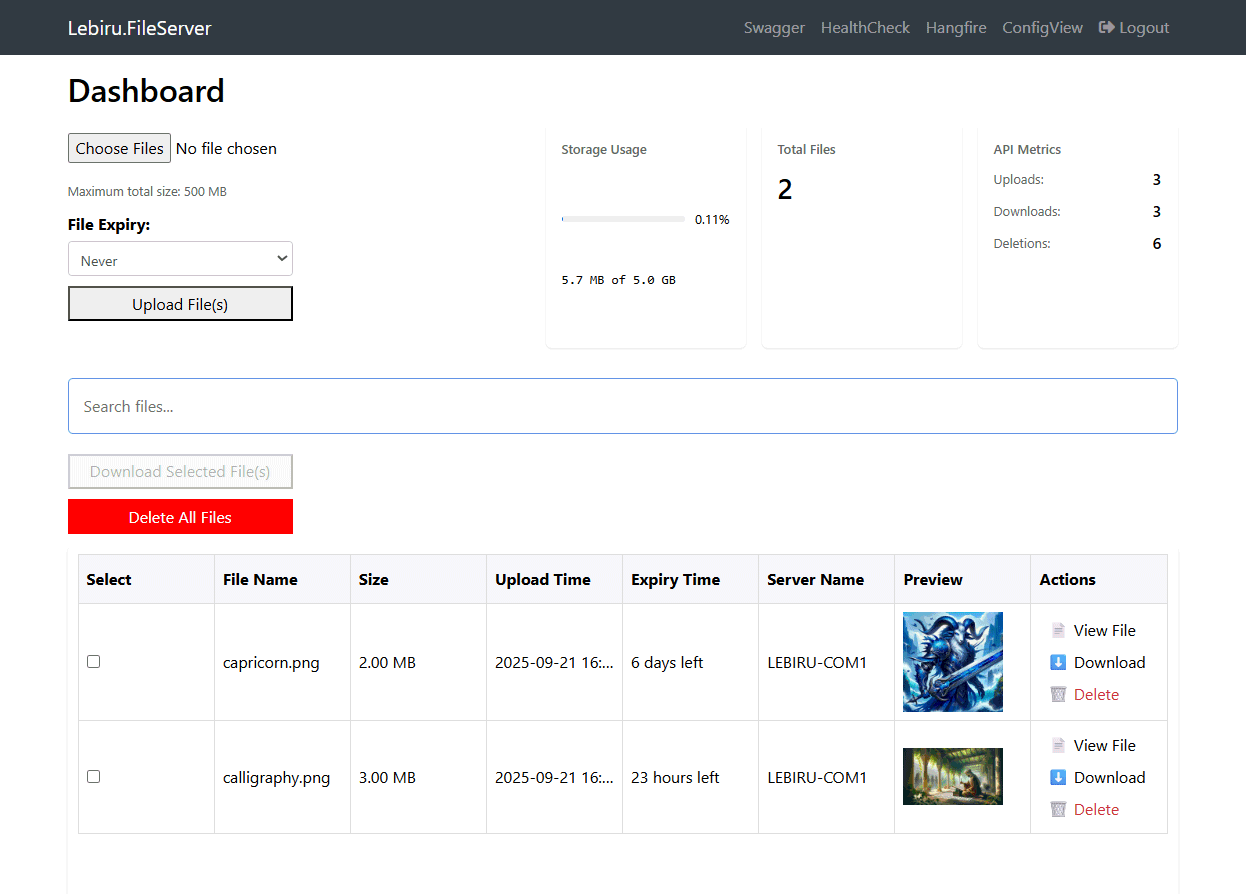
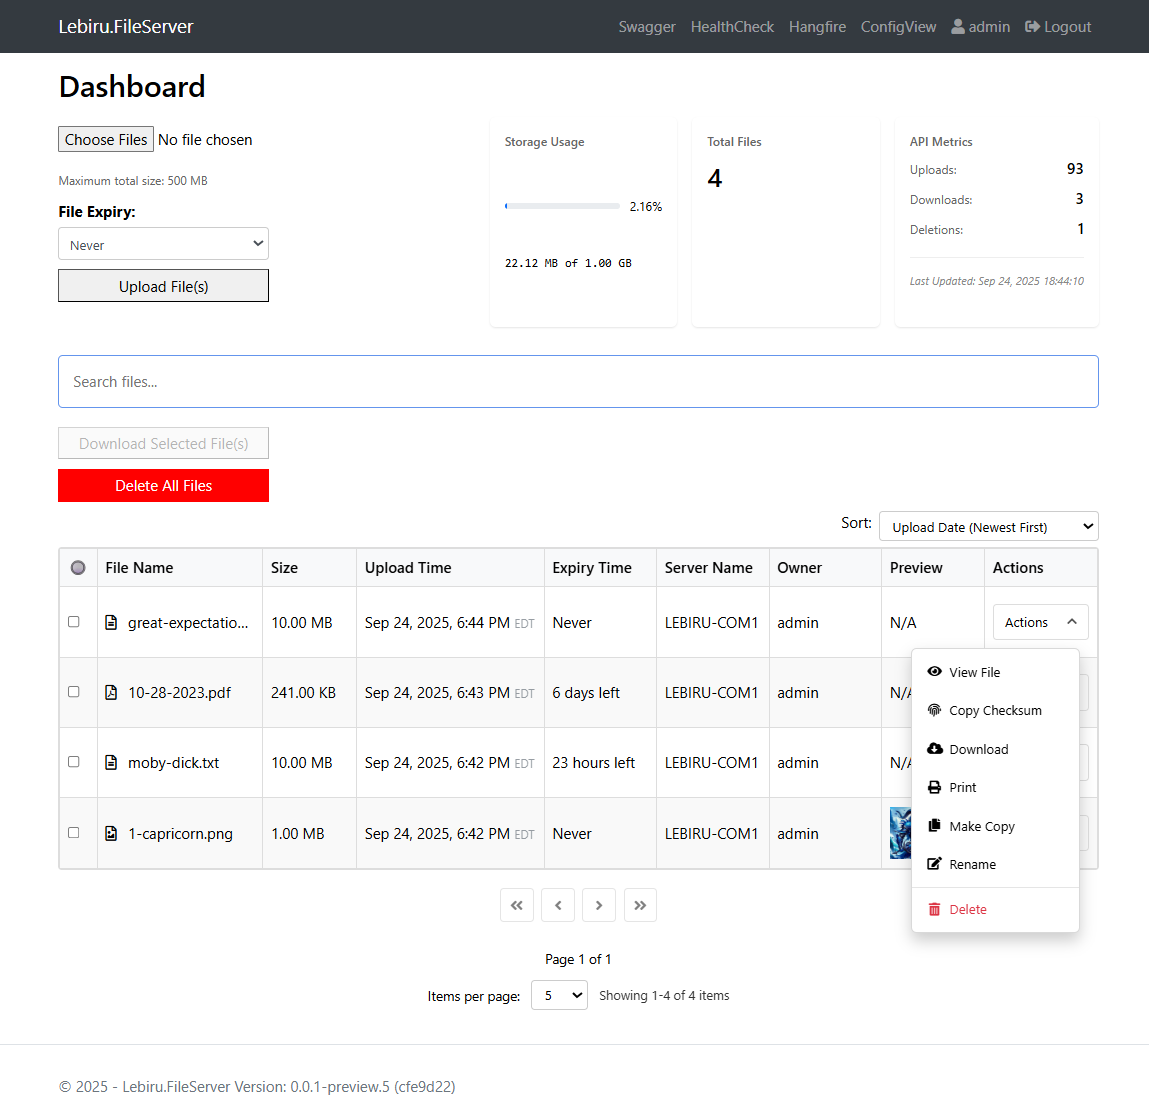
feat: add copy checksum button, readme.md updated with latest screenshot (#22)

diff --git a/app/Controllers/FileController.cs b/app/Controllers/FileController.cs
@@ -7,6 +7,7 @@ using Lebiru.FileService.Models;
 using FileInfo = Lebiru.FileService.Models.FileInfo;
 using Lebiru.FileService.Services;
 using Microsoft.AspNetCore.Authorization;
+using System.Security.Cryptography;
 
 namespace Lebiru.FileService.Controllers
 {
@@ -18,8 +19,8 @@ namespace Lebiru.FileService.Controllers
     [Authorize]
     public class FileController : Controller
     {
-    private const string UploadsFolder = "uploads";
-    private const string DataFolder = "app-data";
+        private const string UploadsFolder = "uploads";
+        private const string DataFolder = "app-data";
         private readonly CleanupJob _cleanupJob;
         private readonly IBackgroundJobClient _backgroundJobClient;
         private readonly string _fileInfoPath;
@@ -28,7 +29,7 @@ namespace Lebiru.FileService.Controllers
         private readonly IUserService _userService;
 
         private static readonly object _fileLock = new object();
-        
+
         private List<Models.FileInfo> FileInfos
         {
             get
@@ -102,7 +103,7 @@ namespace Lebiru.FileService.Controllers
             fileInfos = fileInfos
                 .OrderByDescending(f => f.UploadTime)
                 .ToList();
-            
+
             // Create pagination model with default values
             var pagination = new PaginationModel
             {
@@ -164,11 +165,11 @@ namespace Lebiru.FileService.Controllers
                 "expiry_desc" => fileInfos.OrderByDescending(f => f.ExpiryTime ?? DateTime.MaxValue).ToList(),
                 _ => fileInfos.OrderByDescending(f => f.UploadTime).ToList(), // upload_desc default
             };
-            
+
             // Ensure valid pagination parameters
             page = Math.Max(1, page);
-            itemsPerPage = PaginationModel.PageSizeOptions.Contains(itemsPerPage) 
-                ? itemsPerPage 
+            itemsPerPage = PaginationModel.PageSizeOptions.Contains(itemsPerPage)
+                ? itemsPerPage
                 : PaginationModel.PageSizeOptions[1]; // Default to 10
 
             // Create pagination model
@@ -254,7 +255,7 @@ namespace Lebiru.FileService.Controllers
                 {
                     await file.CopyToAsync(stream);
                 }
-                
+
                 // Flush to ensure the file is written to disk
                 System.IO.File.SetLastWriteTimeUtc(filePath, DateTime.UtcNow);
 
@@ -301,7 +302,7 @@ namespace Lebiru.FileService.Controllers
 
             // Increment upload counter
             _metricsService.IncrementUploadCount();
-            
+
             return Ok("File uploaded successfully.");
         }
 
@@ -338,7 +339,7 @@ namespace Lebiru.FileService.Controllers
             var mimeType = GetMimeType(filePath);
             return PhysicalFile(filePath, mimeType, enableRangeProcessing: true);
         }
-        
+
         /// <summary>
         /// Views a file in the browser in print mode
         /// </summary>
@@ -353,15 +354,15 @@ namespace Lebiru.FileService.Controllers
                 return NotFound("File not found.");
 
             var mimeType = GetMimeType(filePath);
-            
+
             // Add JavaScript to automatically open print dialog
             ViewBag.Filename = filename;
             ViewBag.MimeType = mimeType;
             ViewBag.FilePath = Url.Action("ViewFile", "File", new { filename });
-            
+
             return View("PrintView");
         }
-        
+
         /// <summary>
         /// Makes a copy of the specified file
         /// </summary>
@@ -377,36 +378,36 @@ namespace Lebiru.FileService.Controllers
                 {
                     return BadRequest("Filename cannot be empty.");
                 }
-                
+
                 // Sanitize filename and get paths
                 filename = Path.GetFileName(filename);
                 var sourcePath = Path.Combine(Directory.GetCurrentDirectory(), UploadsFolder, filename);
-                
+
                 // Check if source file exists
                 if (!System.IO.File.Exists(sourcePath))
                 {
                     return NotFound($"File '{filename}' not found.");
                 }
-                
+
                 // Check if user has permission to access the file
                 var username = User.Identity?.Name;
                 if (username == null)
                 {
                     return Unauthorized();
                 }
-                
+
                 var userRole = User.Claims.FirstOrDefault(c => c.Type == System.Security.Claims.ClaimTypes.Role)?.Value;
                 if (userRole != UserRoles.Admin && !_userService.IsFileOwner(username, sourcePath))
                 {
                     return Forbid();
                 }
-                
+
                 // Generate new filename with " Copy" suffix
                 string filenameWithoutExt = Path.GetFileNameWithoutExtension(filename);
                 string extension = Path.GetExtension(filename);
                 string newFilename = $"{filenameWithoutExt} Copy{extension}";
                 string destPath = Path.Combine(Directory.GetCurrentDirectory(), UploadsFolder, newFilename);
-                
+
                 // If file with " Copy" suffix exists, add a number
                 int counter = 1;
                 while (System.IO.File.Exists(destPath))
@@ -415,7 +416,7 @@ namespace Lebiru.FileService.Controllers
                     destPath = Path.Combine(Directory.GetCurrentDirectory(), UploadsFolder, newFilename);
                     counter++;
                 }
-                
+
                 // Check if copy will exceed configured disk space limit
                 var totalSpaceUsed = GetTotalSpaceUsed(Path.Combine(Directory.GetCurrentDirectory(), UploadsFolder));
                 var sourceFileInfo = new System.IO.FileInfo(sourcePath);
@@ -424,10 +425,10 @@ namespace Lebiru.FileService.Controllers
                 {
                     return BadRequest($"File copy would exceed the maximum allocated space of {_config.MaxDiskSpaceGB} GB.");
                 }
-                
+
                 // Copy the file
                 System.IO.File.Copy(sourcePath, destPath);
-                
+
                 // Update fileInfo.json
                 var fileInfos = FileInfos;
                 var sourceFileDetails = fileInfos.FirstOrDefault(f => f.FileName == filename);
@@ -442,20 +443,20 @@ namespace Lebiru.FileService.Controllers
                         FileSize = sourceFileDetails.FileSize,
                         Owner = User.Identity?.Name
                     };
-                    
+
                     fileInfos.Add(newFileInfo);
                     FileInfos = fileInfos;
                 }
-                
+
                 // Add file ownership
                 if (username != null)
                 {
                     _userService.AddFileToUser(username, destPath);
                 }
-                
+
                 // Increment upload counter (copying is like uploading)
                 _metricsService.IncrementUploadCount();
-                
+
                 return Ok(new { message = $"File copied successfully as '{newFilename}'", newFilename });
             }
             catch (Exception ex)
@@ -471,7 +472,8 @@ namespace Lebiru.FileService.Controllers
                 return 0;
 
             // Get fresh file info and handle any locked files
-            return directoryInfo.GetFiles().Sum(file => {
+            return directoryInfo.GetFiles().Sum(file =>
+            {
                 try
                 {
                     file.Refresh();
@@ -554,7 +556,7 @@ namespace Lebiru.FileService.Controllers
             // Enqueue both cleanup jobs
             _backgroundJobClient.Enqueue(() => _cleanupJob.Execute(null!));
             _backgroundJobClient.Enqueue<ExpiryJob>(job => job.DeleteExpiredFiles(null));
-            
+
             return Ok("Cleanup jobs have been enqueued.");
         }
 
@@ -594,14 +596,14 @@ namespace Lebiru.FileService.Controllers
                 }
 
                 memoryStream.Seek(0, SeekOrigin.Begin);
-                
+
                 // Count each file in the zip as a download
                 var fileList = filenames.Split('|', StringSplitOptions.RemoveEmptyEntries);
                 foreach (var _ in fileList)
                 {
                     _metricsService.IncrementDownloadCount();
                 }
-                
+
                 return File(memoryStream.ToArray(), "application/zip", $"LebiruFiles.zip");
             }
         }
@@ -704,7 +706,7 @@ namespace Lebiru.FileService.Controllers
                 {
                     return BadRequest("New filename cannot be empty.");
                 }
-                
+
                 // Ensure the new filename has the same extension to prevent type changing
                 var oldExtension = Path.GetExtension(oldFilename);
                 var newExtension = Path.GetExtension(newFilename);
@@ -717,41 +719,41 @@ namespace Lebiru.FileService.Controllers
                 {
                     return BadRequest("Changing file extension is not allowed. New filename must have the same extension as the original.");
                 }
-                
+
                 var oldFilePath = Path.Combine(Directory.GetCurrentDirectory(), UploadsFolder, oldFilename);
                 var newFilePath = Path.Combine(Directory.GetCurrentDirectory(), UploadsFolder, newFilename);
-                
+
                 // Check if source file exists
                 if (!System.IO.File.Exists(oldFilePath))
                 {
                     return NotFound($"File '{oldFilename}' not found.");
                 }
-                
+
                 // Check if target file already exists
                 if (System.IO.File.Exists(newFilePath))
                 {
                     return BadRequest($"File '{newFilename}' already exists. Please choose a different name.");
                 }
-                
+
                 // Check if user has permission to modify the file
                 var username = User.Identity?.Name;
                 if (username == null)
                 {
                     return Unauthorized();
                 }
-                
+
                 var userRole = User.Claims.FirstOrDefault(c => c.Type == System.Security.Claims.ClaimTypes.Role)?.Value;
                 if (userRole != UserRoles.Admin && !_userService.IsFileOwner(username, oldFilePath))
                 {
                     return Forbid();
                 }
-                
+
                 // Rename the physical file
                 System.IO.File.Move(oldFilePath, newFilePath);
-                
+
                 // Update file references in userInfo.json
                 _userService.UpdateFilePath(oldFilePath, newFilePath);
-                
+
                 // Update fileInfo.json
                 var fileInfos = FileInfos;
                 var fileInfo = fileInfos.FirstOrDefault(f => f.FileName == oldFilename);
@@ -761,7 +763,7 @@ namespace Lebiru.FileService.Controllers
                     fileInfo.FilePath = newFilePath;
                     FileInfos = fileInfos;
                 }
-                
+
                 return Ok(new { message = "File renamed successfully", newFilename });
             }
             catch (Exception ex)
@@ -769,7 +771,7 @@ namespace Lebiru.FileService.Controllers
                 return StatusCode(500, $"An error occurred while renaming the file: {ex.Message}");
             }
         }
-        
+
         /// <summary>
         /// Deletes a specific file from the server
         /// </summary>
@@ -826,7 +828,7 @@ namespace Lebiru.FileService.Controllers
             string[] suffixes = { "B", "KB", "MB", "GB", "TB", "PB" };
             int counter = 0;
             decimal number = bytes;
-            
+
             // Convert without rounding until we reach the final unit
             while (number >= 1024)
             {
@@ -839,8 +841,56 @@ namespace Lebiru.FileService.Controllers
             return $"{number.ToString(format)} {suffixes[counter]}";
         }
 
+        /// <summary>
+        /// Calculate SHA-256 checksum for a specified file
+        /// </summary>
+        /// <param name="filename">The name of the file to calculate the checksum for</param>
+        /// <returns>SHA-256 checksum of the file as a string</returns>
+        private string CalculateSha256Checksum(string filename)
+        {
+            try
+            {
+                var filePath = Path.Combine(Directory.GetCurrentDirectory(), UploadsFolder, filename);
+                if (!System.IO.File.Exists(filePath))
+                {
+                    return string.Empty;
+                }
 
+                using (var stream = System.IO.File.OpenRead(filePath))
+                using (var sha256 = SHA256.Create())
+                {
+                    var hash = sha256.ComputeHash(stream);
+                    return BitConverter.ToString(hash).Replace("-", "").ToLowerInvariant();
+                }
+            }
+            catch (Exception)
+            {
+                return string.Empty;
+            }
+        }
+
+        /// <summary>
+        /// Get the SHA-256 checksum for a file
+        /// </summary>
+        /// <param name="filename">The name of the file</param>
+        /// <returns>JSON object containing the filename and its SHA-256 checksum</returns>
+        [HttpGet("Checksum")]
+        [ProducesResponseType(StatusCodes.Status200OK)]
+        [ProducesResponseType(StatusCodes.Status404NotFound)]
+        public IActionResult GetChecksum(string filename)
+        {
+            if (string.IsNullOrEmpty(filename))
+            {
+                return BadRequest("Filename cannot be empty");
+            }
+
+            var checksum = CalculateSha256Checksum(filename);
+            if (string.IsNullOrEmpty(checksum))
+            {
+                return NotFound($"File '{filename}' not found or could not be accessed");
+            }
+
+            return Json(new { filename, checksum });
+        }
     }
-
-
 }

diff --git a/README.md b/README.md
@@ -12,6 +12,7 @@ Lebiru.FileService is a simple ASP.NET Core application that allows users to upl
 - **File Printing**: 🖨 Users can easily print files directly from the web interface.
 - **File Rename**: 🔄 Users can rename their uploaded files while preserving file extensions.
 - **File Copy**: 📋 Users can create copies of files with automatic naming (adds "Copy" suffix).
+- **File Checksums**: 🔐 Users can copy SHA-256 checksums of files to the clipboard for verification.
 - **Multi-File Download to Zip**: Users can download multiple files into a zip from the server. (@alfcanres)
 - **File Listing**: Users can view a list of uploaded files along with their upload times.
 - **Image Preview**: 🖼 Image files are displayed with a preview in the web interface.
@@ -115,6 +116,11 @@ The API documentation is available through Swagger. Once the application is runn
   - Creates a new file with same content and attributes as the original
   - New copy is assigned to the user who created it
   - File references are automatically updated (ownership records, file metadata)
+- **File Checksums**:
+  - Click the Copy Checksum button in the file actions menu to copy the SHA-256 hash to clipboard
+  - Verify file integrity and authenticity by comparing checksums
+  - Success notification displayed when checksum is copied
+  - Access via API endpoint at `/File/Checksum?filename=your_file_name`
 - **File Management**:
   - View list of all uploaded files with upload times and expiry status
   - Rename files while preserving file extension and ownership
